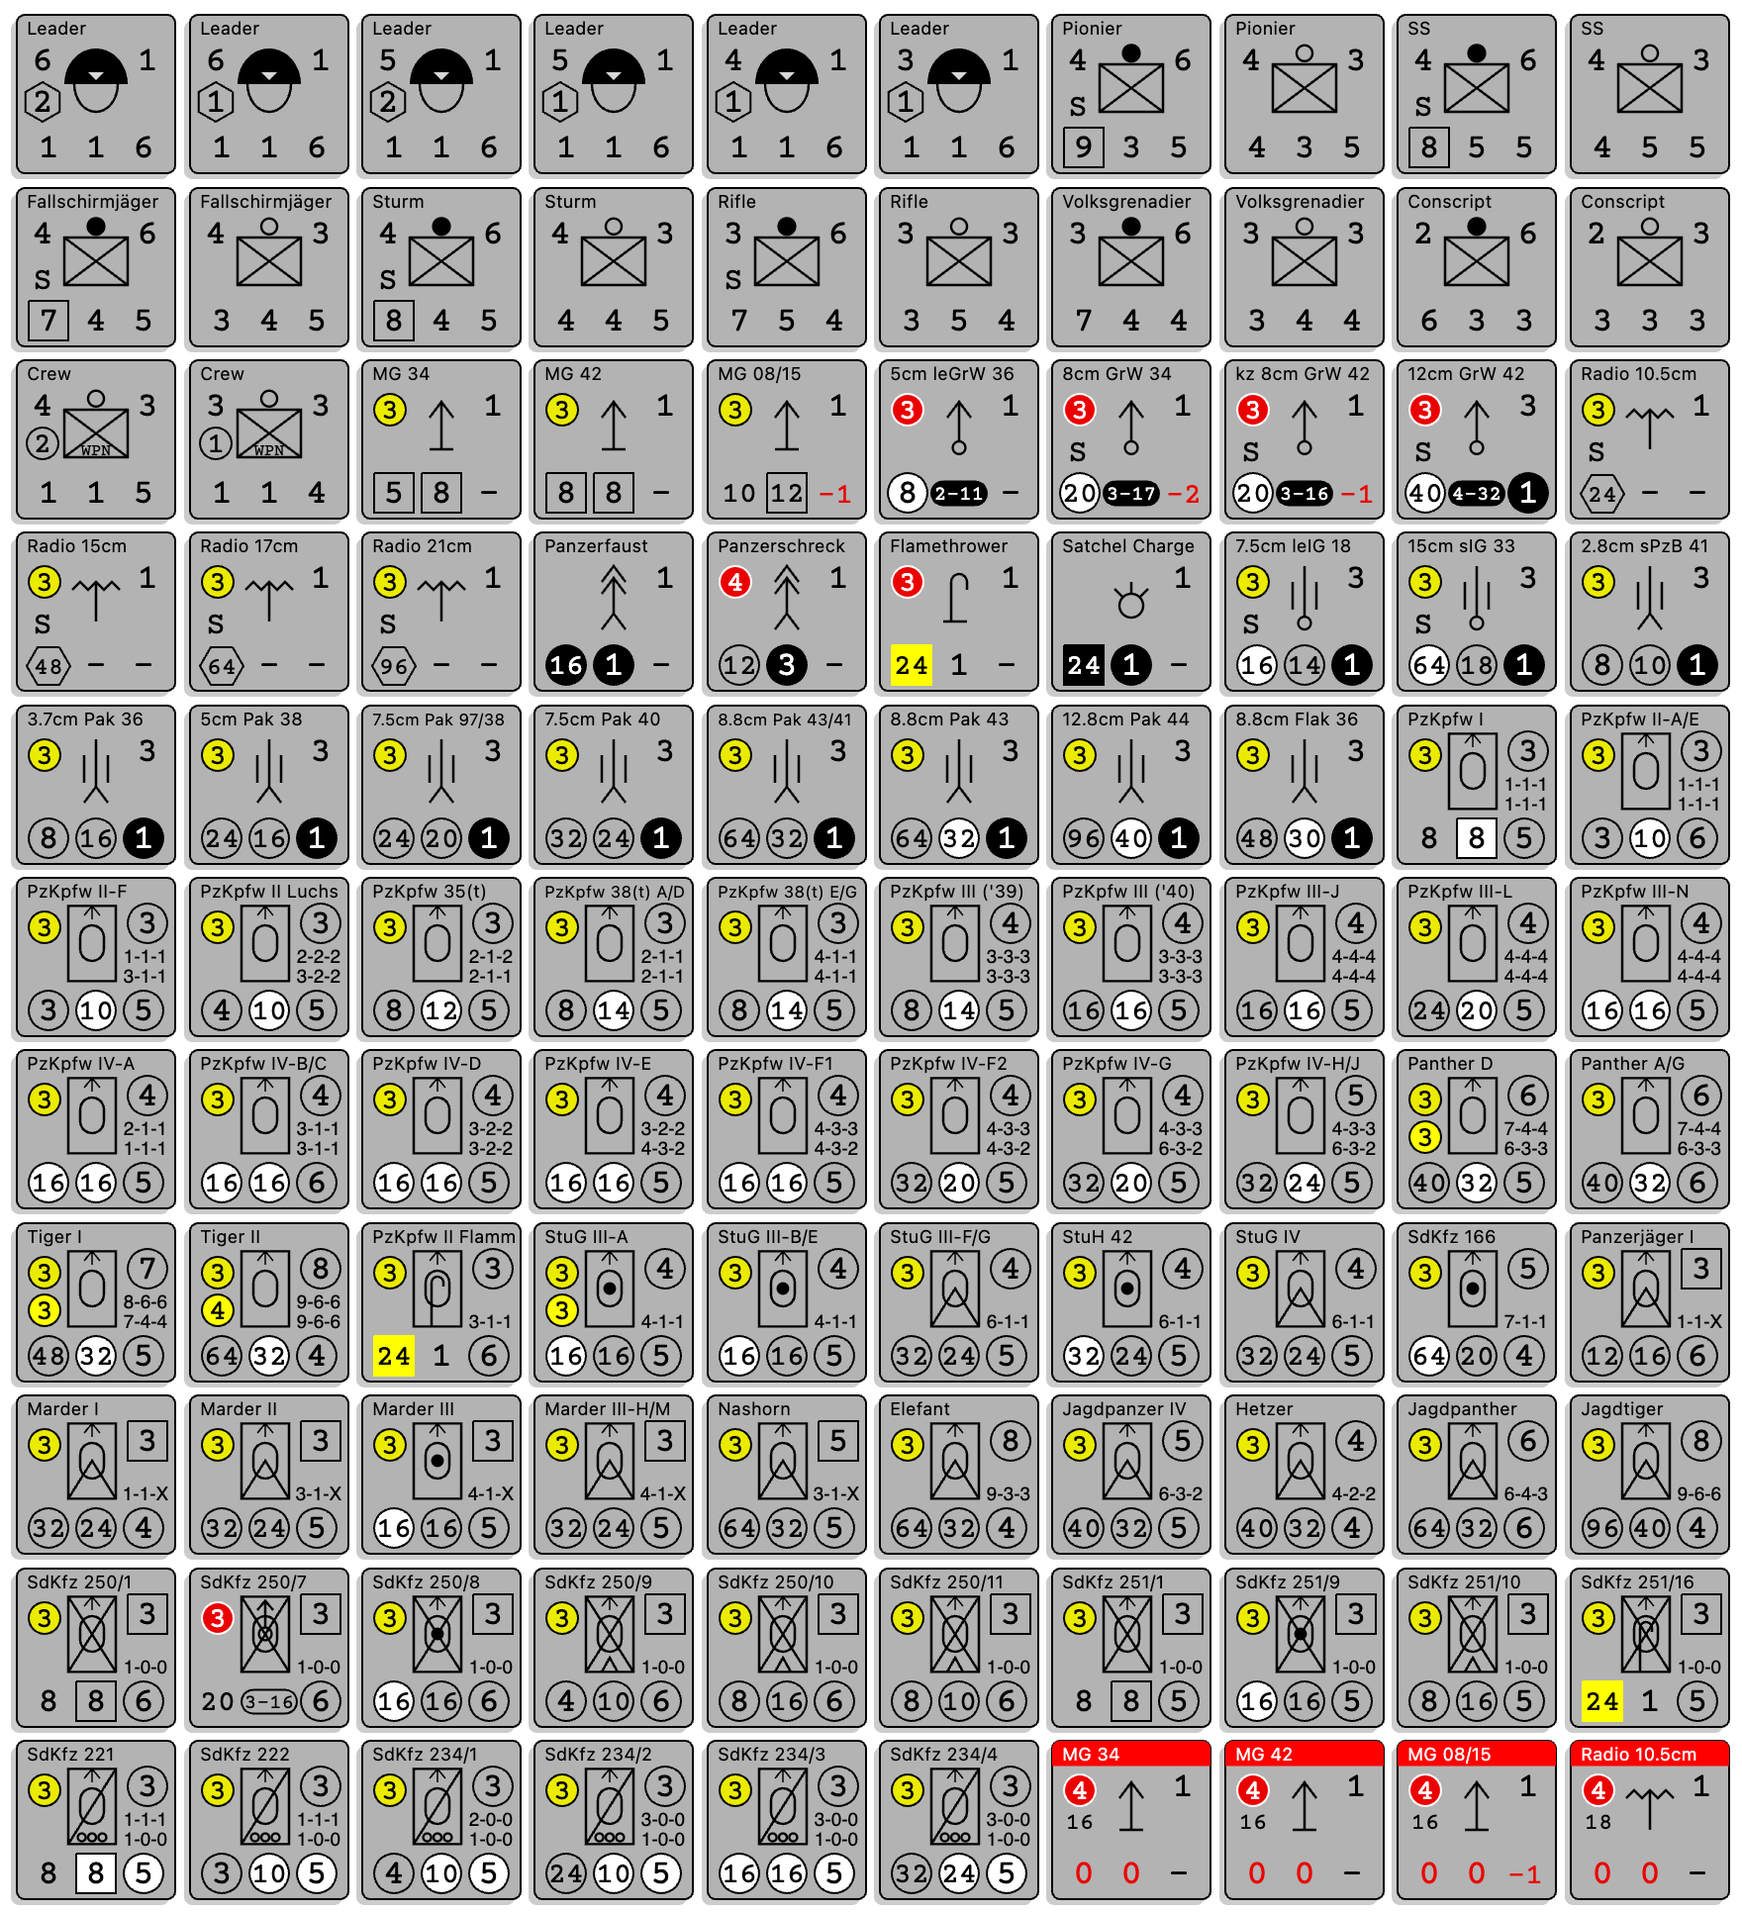
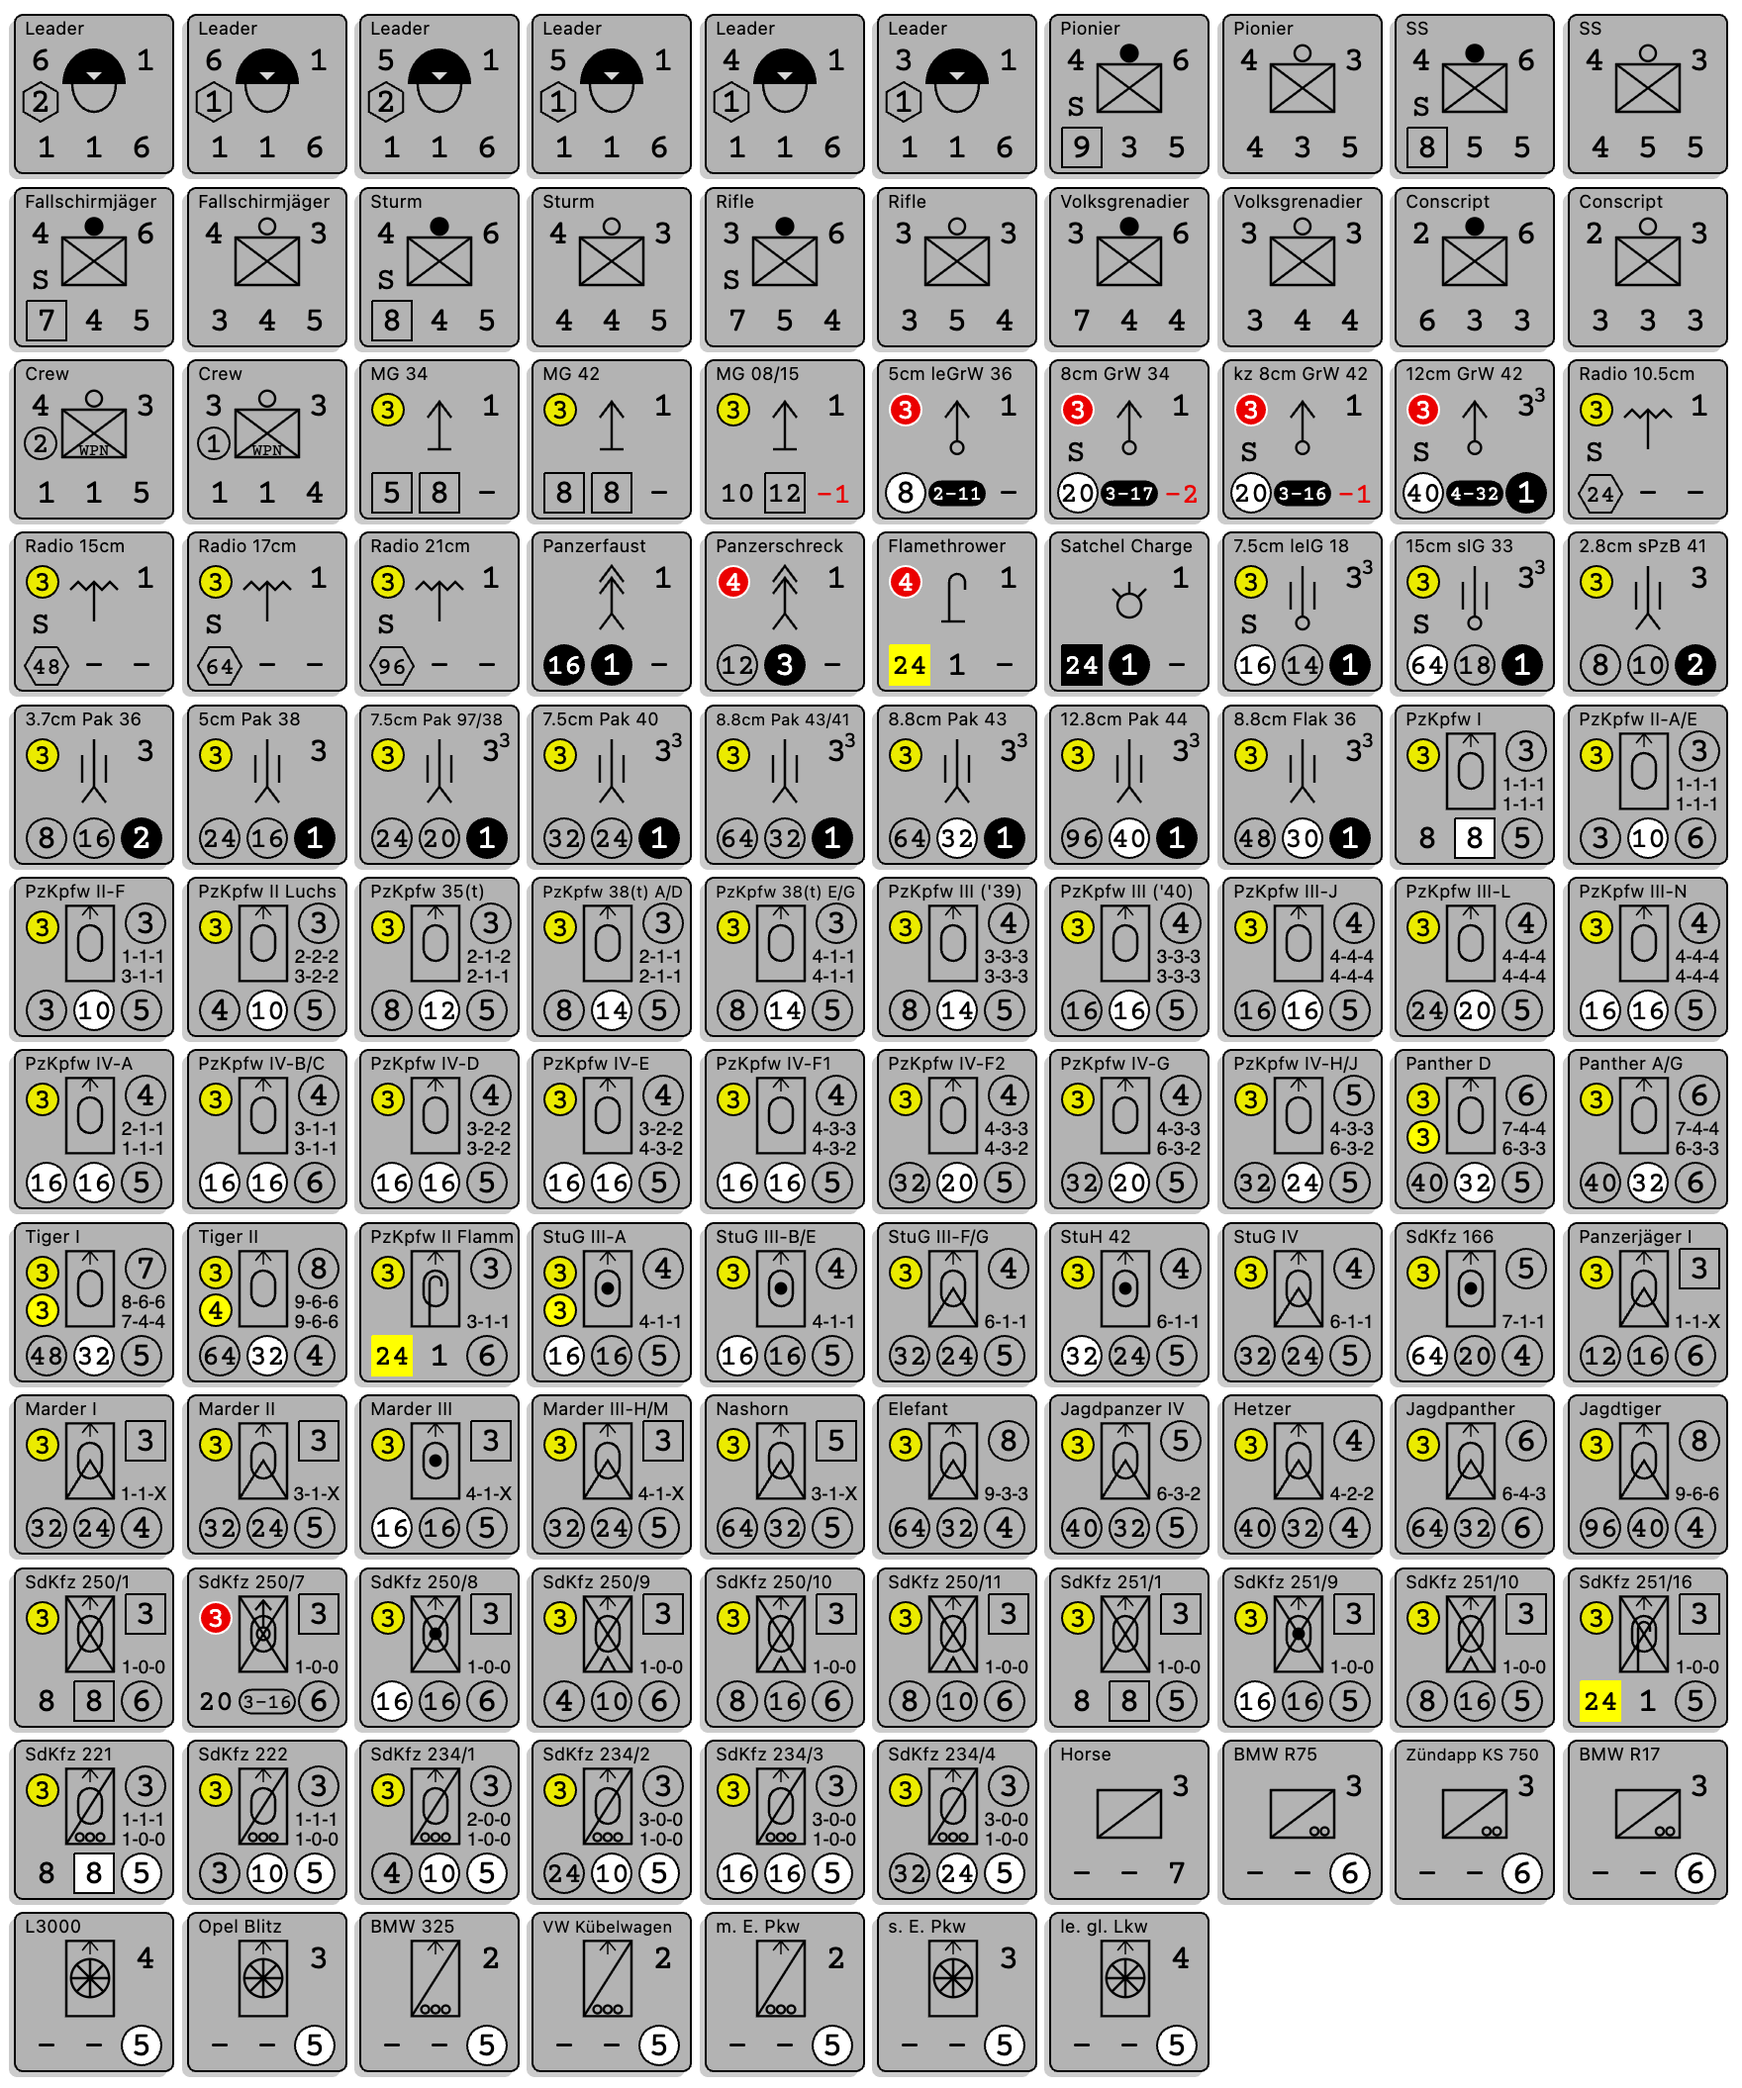
Minor changes, updated counter previews

diff --git a/app/models/utility/scenarios/units.rb b/app/models/utility/scenarios/units.rb
@@ -908,7 +908,7 @@ module Utility
             ["fra", "Citroen U23", "truck", 35, 4, 0, 0, 5, {}],
             ["ger", "Horse", "cav", 0, 3, 0, 0, 7, {}],
             ["ger", "BMW R75", "cav-wheel", 41, 3, 0, 0, 6, {}],
-            ["ger", "Zündapp KS 750", "cav-wheel", 41, 3, 0, 0, 6, {}],
+            ["ger", "Zündapp KS 750", "cav-wheel", 41, 3, 0, 0, 6, { sn: 1 }],
             ["ger", "BMW R17", "cav-wheel", 35, 3, 0, 0, 6, {}],
             ["ger", "L3000", "truck", 38, 4, 0, 0, 5, {}],
             ["ger", "Opel Blitz", "truck", 30, 3, 0, 0, 5, {}],

diff --git a/app/models/scenarios/scenario_106.rb b/app/models/scenarios/scenario_106.rb
@@ -377,7 +377,7 @@ module Scenarios
             { t: "o", h: 4, r: { d: [1, 3] } },
             { t: "o", h: 4 },
             { t: "o", h: 4 },
-            { t: "o", h: 4, d: 1, st: { sh: "h", s: "f" } },
+            { t: "o", h: 4, d: 2, st: { sh: "h", s: "f" } },
             { t: "o", h: 4 },
             { t: "o", h: 4 },
             { t: "o", h: 4 },

diff --git a/app/models/scenarios/scenario_601.rb b/app/models/scenarios/scenario_601.rb
@@ -685,7 +685,7 @@ module Scenarios
             :jap_radio_15cm,
             :jap_chiyoda_ac,
             [6, :wire],
-            [4, :bunker],
+            [4, :pillbox],
             :sniper4,
           ].map { |u| Utility::Scenarios::Units.unit_definition(u) } },
           "3": { list: [
